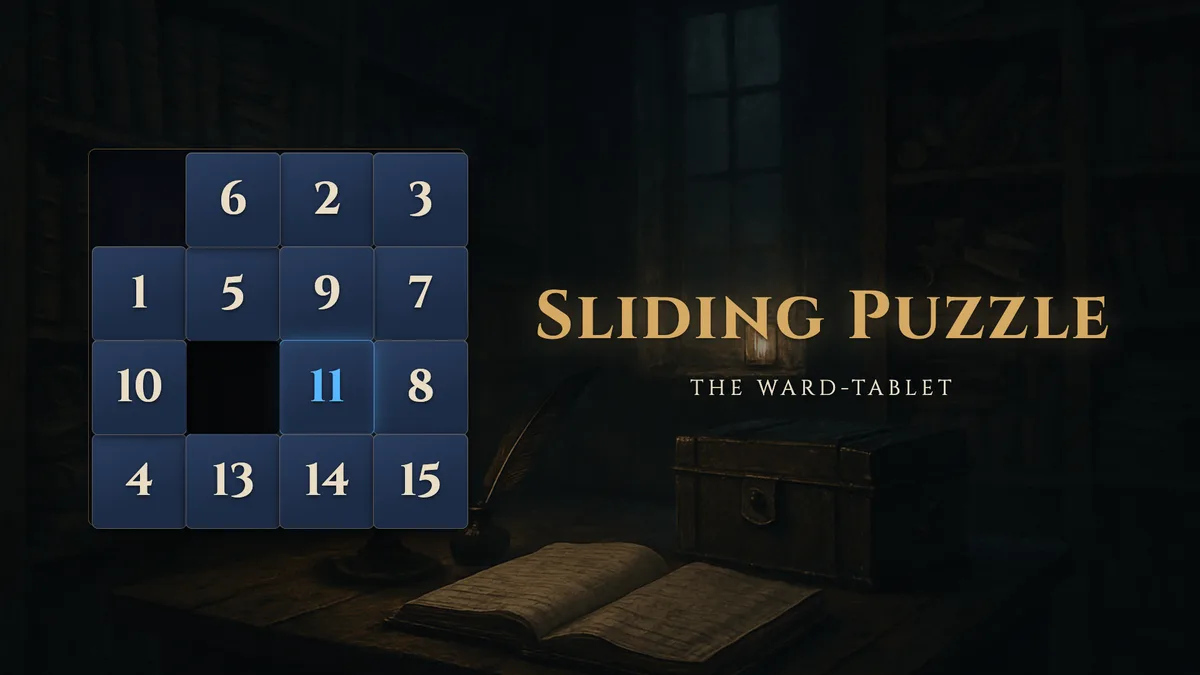
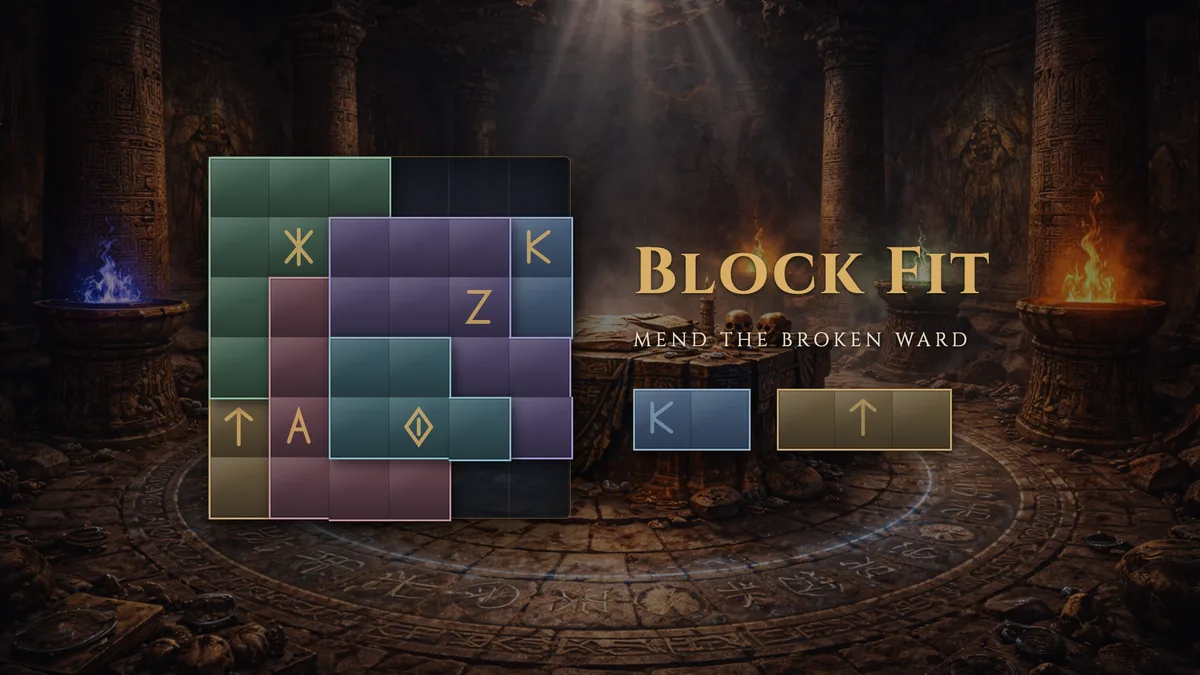
Block Fit: the rebuilt game's key art, copy and pitch
The page now says what the game actually is — 48 tablets across four sizes plus a daily,
every one proved to fit back together exactly one way — and carries the key art composed
from a real board instead of the placeholder desk.

diff --git a/small-games/index.html b/small-games/index.html
@@ -4,4 +4,4 @@
 <link rel="canonical" href="https://morass.github.io/small-games/"><meta property="og:title" content="Small Games — Morass"><meta property="og:description" content="Thoughtful little games you can play right here, in your browser."><meta property="og:type" content="website"><meta property="og:url" content="https://morass.github.io/small-games/"><meta property="og:image" content="https://morass.github.io/assets/projects/pyrewarden.webp">
 <meta name="theme-color" content="#101713"><script src="/theme.js"></script><link rel="icon" href="/favicon.png"><link rel="stylesheet" href="/hub.css"><script src="/hub.js" defer></script></head>
 <body><a class="skip" href="#main">Skip to content</a><header class="header"><div class="shell header-inner"><a class="brand" href="/" aria-label="Morass home"><span class="brand-mark" aria-hidden="true">m.</span>MORASS<span class="brand-note">PLAY · MAKE · EXPLORE</span></a><nav aria-label="Main"><a href="/games/">Games</a><a href="/small-games/" aria-current="page">Small Games</a><a href="/mobile/">Mobile</a><a href="/youtube/">YouTube</a><a href="/prints/">Prints</a></nav><button class="theme-toggle" type="button" aria-label="Switch to light mode" title="Switch to light mode" hidden><svg class="icon-sun" viewBox="0 0 24 24" aria-hidden="true"><g fill="none" stroke="currentColor" stroke-width="1.5" stroke-linecap="round"><circle cx="12" cy="12" r="4.2"/><path d="M12 2.5v2.6M12 18.9v2.6M2.5 12h2.6M18.9 12h2.6M5.3 5.3l1.8 1.8M16.9 16.9l1.8 1.8M5.3 18.7l1.8-1.8M16.9 7.1l1.8-1.8"/></g></svg><svg class="icon-moon" viewBox="0 0 24 24" aria-hidden="true"><path d="M19.5 14.6A7.8 7.8 0 0 1 9.4 4.5a7.8 7.8 0 1 0 10.1 10.1Z" fill="none" stroke="currentColor" stroke-width="1.5" stroke-linejoin="round"/><path d="M17 4.5l.6 1.4 1.4.6-1.4.6-.6 1.4-.6-1.4-1.4-.6 1.4-.6Z" fill="currentColor"/></svg></button></div></header>
-<main id="main" class="shell"><nav class="breadcrumbs" aria-label="Breadcrumb"><a href="/">Home</a><span aria-hidden="true">/</span><a href="/small-games/">Small Games</a></nav><header class="page-heading"><p class="eyebrow">Small Games</p><h1>Small games. Good company.</h1><p class="lede">Thoughtful little games you can play right here, in your browser.</p></header><section id="puzzle" class="collection"><div class="section-title"><h2>Puzzles</h2><span class="section-note">7 games</span></div><div class="cards"><a class="card" href="/small-games/block-fit/"><div class="card-art"><img src="/assets/projects/block-fit.webp" alt="" loading="lazy" width="960" height="600"><span class="card-arrow" aria-hidden="true">↗</span></div><div class="card-copy"><p class="eyebrow">Puzzle · Play in your browser</p><h2>Block Fit</h2><p>Fit the scattered runestones perfectly back into the warding tablet.</p></div></a><a class="card" href="/small-games/borrowed-ink/"><div class="card-art"><img src="/assets/projects/borrowed-ink.webp" alt="" loading="lazy" width="960" height="600"><span class="card-arrow" aria-hidden="true">↗</span></div><div class="card-copy"><p class="eyebrow">Puzzle · Play in your browser</p><h2>Borrowed Ink</h2><p>A little stamp, a sheet of paper and thirty ink-exchange puzzles. Match the pattern and leave the stamp empty.</p></div></a><a class="card" href="/small-games/lanternward/"><div class="card-art"><img src="/assets/projects/lanternward-web.webp" alt="" loading="lazy" width="960" height="600"><span class="card-arrow" aria-hidden="true">↗</span></div><div class="card-copy"><p class="eyebrow">Puzzle · Play in your browser</p><h2>Lanternward</h2><p>Light every street of Veldrenmar. An Akari logic puzzle with 300 graded levels and a daily, one solution each, never a guess.</p></div></a><a class="card" href="/small-games/minesweeper/"><div class="card-art"><img src="/assets/projects/minesweeper.webp" alt="" loading="lazy" width="960" height="600"><span class="card-arrow" aria-hidden="true">↗</span></div><div class="card-copy"><p class="eyebrow">Puzzle · Play in your browser</p><h2>Minesweeper</h2><p>Minesweeper on a Sundered floor. The first stone is always safe, and you never have to guess.</p></div></a><a class="card" href="/small-games/nonogram/"><div class="card-art"><img src="/assets/projects/nonogram.webp" alt="" loading="lazy" width="960" height="600"><span class="card-arrow" aria-hidden="true">↗</span></div><div class="card-copy"><p class="eyebrow">Puzzle · Play in your browser</p><h2>Nonogram</h2><p>Picture logic puzzles by candlelight. 240 hand-drawn pictures and a daily, one folio from our novel The Cistern Heresy. Never a guess.</p></div></a><a class="card" href="/small-games/sliding-puzzle/"><div class="card-art"><img src="/assets/projects/sliding-puzzle.webp" alt="" loading="lazy" width="960" height="600"><span class="card-arrow" aria-hidden="true">↗</span></div><div class="card-copy"><p class="eyebrow">Puzzle · Play in your browser</p><h2>Sliding Puzzle</h2><p>The 15 puzzle on a keeper&#x27;s ward-tablet. Ten measured boards per size and a daily — every board tells you its shortest way home.</p></div></a><a class="card" href="/small-games/sudoku/"><div class="card-art"><img src="/assets/projects/sudoku.webp" alt="" loading="lazy" width="960" height="600"><span class="card-arrow" aria-hidden="true">↗</span></div><div class="card-copy"><p class="eyebrow">Puzzle · Play in your browser</p><h2>Sudoku</h2><p>Sudoku under two moons. 480 boards and a daily, one answer each, never a guess.</p></div></a></div></section></main><footer class="footer shell"><a class="brand" href="/">morass<span class="accent">.</span></a><p>Games, objects and other curiosities.<br>Made with care. Made to be explored.</p><nav aria-label="Footer"><a href="/prints/">Prints</a><a href="/games/">Games</a><a href="/tools/">Tools</a><a href="https://discord.gg/KTKarn46yq" rel="noopener">Discord</a><a href="/privacy.html">Privacy</a></nav><small>© 2026 Morass</small></footer></body></html>
+<main id="main" class="shell"><nav class="breadcrumbs" aria-label="Breadcrumb"><a href="/">Home</a><span aria-hidden="true">/</span><a href="/small-games/">Small Games</a></nav><header class="page-heading"><p class="eyebrow">Small Games</p><h1>Small games. Good company.</h1><p class="lede">Thoughtful little games you can play right here, in your browser.</p></header><section id="puzzle" class="collection"><div class="section-title"><h2>Puzzles</h2><span class="section-note">7 games</span></div><div class="cards"><a class="card" href="/small-games/block-fit/"><div class="card-art"><img src="/assets/projects/block-fit.webp" alt="" loading="lazy" width="960" height="600"><span class="card-arrow" aria-hidden="true">↗</span></div><div class="card-copy"><p class="eyebrow">Puzzle · Play in your browser</p><h2>Block Fit</h2><p>A warding tablet broken into shards. Forty-eight tablets and a daily — every one proved to fit back together exactly one way.</p></div></a><a class="card" href="/small-games/borrowed-ink/"><div class="card-art"><img src="/assets/projects/borrowed-ink.webp" alt="" loading="lazy" width="960" height="600"><span class="card-arrow" aria-hidden="true">↗</span></div><div class="card-copy"><p class="eyebrow">Puzzle · Play in your browser</p><h2>Borrowed Ink</h2><p>A little stamp, a sheet of paper and thirty ink-exchange puzzles. Match the pattern and leave the stamp empty.</p></div></a><a class="card" href="/small-games/lanternward/"><div class="card-art"><img src="/assets/projects/lanternward-web.webp" alt="" loading="lazy" width="960" height="600"><span class="card-arrow" aria-hidden="true">↗</span></div><div class="card-copy"><p class="eyebrow">Puzzle · Play in your browser</p><h2>Lanternward</h2><p>Light every street of Veldrenmar. An Akari logic puzzle with 300 graded levels and a daily, one solution each, never a guess.</p></div></a><a class="card" href="/small-games/minesweeper/"><div class="card-art"><img src="/assets/projects/minesweeper.webp" alt="" loading="lazy" width="960" height="600"><span class="card-arrow" aria-hidden="true">↗</span></div><div class="card-copy"><p class="eyebrow">Puzzle · Play in your browser</p><h2>Minesweeper</h2><p>Minesweeper on a Sundered floor. The first stone is always safe, and you never have to guess.</p></div></a><a class="card" href="/small-games/nonogram/"><div class="card-art"><img src="/assets/projects/nonogram.webp" alt="" loading="lazy" width="960" height="600"><span class="card-arrow" aria-hidden="true">↗</span></div><div class="card-copy"><p class="eyebrow">Puzzle · Play in your browser</p><h2>Nonogram</h2><p>Picture logic puzzles by candlelight. 240 hand-drawn pictures and a daily, one folio from our novel The Cistern Heresy. Never a guess.</p></div></a><a class="card" href="/small-games/sliding-puzzle/"><div class="card-art"><img src="/assets/projects/sliding-puzzle.webp" alt="" loading="lazy" width="960" height="600"><span class="card-arrow" aria-hidden="true">↗</span></div><div class="card-copy"><p class="eyebrow">Puzzle · Play in your browser</p><h2>Sliding Puzzle</h2><p>The 15 puzzle on a keeper&#x27;s ward-tablet. Ten measured boards per size and a daily — every board tells you its shortest way home.</p></div></a><a class="card" href="/small-games/sudoku/"><div class="card-art"><img src="/assets/projects/sudoku.webp" alt="" loading="lazy" width="960" height="600"><span class="card-arrow" aria-hidden="true">↗</span></div><div class="card-copy"><p class="eyebrow">Puzzle · Play in your browser</p><h2>Sudoku</h2><p>Sudoku under two moons. 480 boards and a daily, one answer each, never a guess.</p></div></a></div></section></main><footer class="footer shell"><a class="brand" href="/">morass<span class="accent">.</span></a><p>Games, objects and other curiosities.<br>Made with care. Made to be explored.</p><nav aria-label="Footer"><a href="/prints/">Prints</a><a href="/games/">Games</a><a href="/tools/">Tools</a><a href="https://discord.gg/KTKarn46yq" rel="noopener">Discord</a><a href="/privacy.html">Privacy</a></nav><small>© 2026 Morass</small></footer></body></html>

diff --git a/small-games/block-fit/index.html b/small-games/block-fit/index.html
@@ -1,7 +1,7 @@
 <!doctype html>
 <html lang="en" data-theme="dark"><head><meta charset="utf-8"><meta name="viewport" content="width=device-width, initial-scale=1">
-<title>Block Fit — Morass</title><meta name="description" content="Play a free block packing puzzle. No download, account or ads.">
-<link rel="canonical" href="https://morass.github.io/small-games/block-fit/"><meta property="og:title" content="Block Fit — Morass"><meta property="og:description" content="Play a free block packing puzzle. No download, account or ads."><meta property="og:type" content="website"><meta property="og:url" content="https://morass.github.io/small-games/block-fit/"><meta property="og:image" content="https://morass.github.io/assets/projects/block-fit.webp">
+<title>Block Fit — Morass</title><meta name="description" content="Free shape-packing puzzle: 48 tablets and a daily, every one proved to fit together exactly one way.">
+<link rel="canonical" href="https://morass.github.io/small-games/block-fit/"><meta property="og:title" content="Block Fit — Morass"><meta property="og:description" content="Free shape-packing puzzle: 48 tablets and a daily, every one proved to fit together exactly one way."><meta property="og:type" content="website"><meta property="og:url" content="https://morass.github.io/small-games/block-fit/"><meta property="og:image" content="https://morass.github.io/assets/projects/block-fit.webp">
 <meta name="theme-color" content="#101713"><script src="/theme.js"></script><link rel="icon" href="/favicon.png"><link rel="stylesheet" href="/hub.css"><script src="/hub.js" defer></script></head>
 <body><a class="skip" href="#main">Skip to content</a><header class="header"><div class="shell header-inner"><a class="brand" href="/" aria-label="Morass home"><span class="brand-mark" aria-hidden="true">m.</span>MORASS<span class="brand-note">PLAY · MAKE · EXPLORE</span></a><nav aria-label="Main"><a href="/games/">Games</a><a href="/small-games/" aria-current="page">Small Games</a><a href="/mobile/">Mobile</a><a href="/youtube/">YouTube</a><a href="/prints/">Prints</a></nav><button class="theme-toggle" type="button" aria-label="Switch to light mode" title="Switch to light mode" hidden><svg class="icon-sun" viewBox="0 0 24 24" aria-hidden="true"><g fill="none" stroke="currentColor" stroke-width="1.5" stroke-linecap="round"><circle cx="12" cy="12" r="4.2"/><path d="M12 2.5v2.6M12 18.9v2.6M2.5 12h2.6M18.9 12h2.6M5.3 5.3l1.8 1.8M16.9 16.9l1.8 1.8M5.3 18.7l1.8-1.8M16.9 7.1l1.8-1.8"/></g></svg><svg class="icon-moon" viewBox="0 0 24 24" aria-hidden="true"><path d="M19.5 14.6A7.8 7.8 0 0 1 9.4 4.5a7.8 7.8 0 1 0 10.1 10.1Z" fill="none" stroke="currentColor" stroke-width="1.5" stroke-linejoin="round"/><path d="M17 4.5l.6 1.4 1.4.6-1.4.6-.6 1.4-.6-1.4-1.4-.6 1.4-.6Z" fill="currentColor"/></svg></button></div></header>
-<main id="main" class="shell"><nav class="breadcrumbs" aria-label="Breadcrumb"><a href="/">Home</a><span aria-hidden="true">/</span><a href="/small-games/">Small Games</a><span aria-hidden="true">/</span><a href="/small-games/block-fit/">Block Fit</a></nav><section class="product-hero"><div><header class="page-heading"><p class="eyebrow">SMALL GAMES / PUZZLE</p><h1>Block Fit</h1><p class="lede">Fit the scattered runestones perfectly back into the warding tablet.</p></header><a class="button" href="https://morassgames.com/games/block-fit/">Play now <span aria-hidden="true">↗</span></a><p class="small-note">Free to play · No account · Plays on morassgames.com</p></div><img src="/assets/projects/block-fit.webp" width="960" height="600" alt="The Block Fit puzzle desk"></section><section class="rules"><p class="eyebrow">HOW TO PLAY</p><h2>Restore the ward.</h2><ol><li>Drag pieces from the tray onto the board.</li><li>Fit all pieces perfectly with no gaps to complete the puzzle.</li><li>Pieces cannot be rotated.</li></ol><p>Progress is saved in your browser.</p></section></main><footer class="footer shell"><a class="brand" href="/">morass<span class="accent">.</span></a><p>Games, objects and other curiosities.<br>Made with care. Made to be explored.</p><nav aria-label="Footer"><a href="/prints/">Prints</a><a href="/games/">Games</a><a href="/tools/">Tools</a><a href="https://discord.gg/KTKarn46yq" rel="noopener">Discord</a><a href="/privacy.html">Privacy</a></nav><small>© 2026 Morass</small></footer></body></html>
+<main id="main" class="shell"><nav class="breadcrumbs" aria-label="Breadcrumb"><a href="/">Home</a><span aria-hidden="true">/</span><a href="/small-games/">Small Games</a><span aria-hidden="true">/</span><a href="/small-games/block-fit/">Block Fit</a></nav><section class="product-hero"><div><header class="page-heading"><p class="eyebrow">SMALL GAMES / PUZZLE</p><h1>Block Fit</h1><p class="lede">Every tablet fits back together exactly one way.</p></header><a class="button" href="https://morassgames.com/games/block-fit/">Play now <span aria-hidden="true">↗</span></a><p class="small-note">Free · No account · Plays on morassgames.com</p></div><img src="/assets/projects/block-fit.webp" width="1200" height="675" alt="A broken warding tablet of stone shards being fitted back together in a candlelit ritual chamber"></section><section class="rules"><p class="eyebrow">HOW TO PLAY</p><h2>Mend the broken ward.</h2><ol><li>Drag a shard onto the tablet — the outline shows the slot it will drop into.</li><li>Fill every square with no gaps and no overlaps. Shards never turn.</li></ol><p>Forty-eight tablets across four sizes plus a daily. Every board is proved to fit together exactly one way, and each keeps a public best time.</p></section></main><footer class="footer shell"><a class="brand" href="/">morass<span class="accent">.</span></a><p>Games, objects and other curiosities.<br>Made with care. Made to be explored.</p><nav aria-label="Footer"><a href="/prints/">Prints</a><a href="/games/">Games</a><a href="/tools/">Tools</a><a href="https://discord.gg/KTKarn46yq" rel="noopener">Discord</a><a href="/privacy.html">Privacy</a></nav><small>© 2026 Morass</small></footer></body></html>

diff --git a/scripts/build.py b/scripts/build.py
@@ -235,9 +235,9 @@ body = '<section class="product-hero"><div>'+heading('SMALL GAMES / PUZZLE', 'Bo
 body += '<section class="rules"><p class="eyebrow">HOW TO PLAY</p><h2>Make an impression.</h2><ol><li>Select two neighboring cells on the paper.</li><li>Press <strong>Make impression</strong> to exchange the ink in those cells with the stamp.</li><li>Match the target picture and leave the stamp empty.</li></ol><p>Turn the stamp to switch between horizontal and vertical pairs. Undo, restart and hints are always free. Your progress is saved in this browser.</p><p class="small-note">Keyboard: arrows to move, Enter to select, Space to press, R to turn, Z to undo, H for a hint.</p></section>'
 page('/small-games/borrowed-ink/', 'Borrowed Ink', 'Play a gentle, free ink-exchange puzzle with thirty levels. No download, account or ads.', body, 'small-games', [('Small Games','/small-games/'),('Borrowed Ink','/small-games/borrowed-ink/')], '/assets/projects/borrowed-ink.webp')
 
-body = '<section class="product-hero"><div>'+heading('SMALL GAMES / PUZZLE', 'Block Fit', 'Fit the scattered runestones perfectly back into the warding tablet.')+button('Play now', 'https://morassgames.com/games/block-fit/')+'<p class="small-note">Free to play · No account · Plays on morassgames.com</p></div><img src="/assets/projects/block-fit.webp" width="960" height="600" alt="The Block Fit puzzle desk"></section>'
-body += '<section class="rules"><p class="eyebrow">HOW TO PLAY</p><h2>Restore the ward.</h2><ol><li>Drag pieces from the tray onto the board.</li><li>Fit all pieces perfectly with no gaps to complete the puzzle.</li><li>Pieces cannot be rotated.</li></ol><p>Progress is saved in your browser.</p></section>'
-page('/small-games/block-fit/', 'Block Fit', 'Play a free block packing puzzle. No download, account or ads.', body, 'small-games', [('Small Games','/small-games/'),('Block Fit','/small-games/block-fit/')], '/assets/projects/block-fit.webp')
+body = '<section class="product-hero"><div>'+heading('SMALL GAMES / PUZZLE', 'Block Fit', 'Every tablet fits back together exactly one way.')+button('Play now', 'https://morassgames.com/games/block-fit/')+'<p class="small-note">Free · No account · Plays on morassgames.com</p></div><img src="/assets/projects/block-fit.webp" width="1200" height="675" alt="A broken warding tablet of stone shards being fitted back together in a candlelit ritual chamber"></section>'
+body += '<section class="rules"><p class="eyebrow">HOW TO PLAY</p><h2>Mend the broken ward.</h2><ol><li>Drag a shard onto the tablet — the outline shows the slot it will drop into.</li><li>Fill every square with no gaps and no overlaps. Shards never turn.</li></ol><p>Forty-eight tablets across four sizes plus a daily. Every board is proved to fit together exactly one way, and each keeps a public best time.</p></section>'
+page('/small-games/block-fit/', 'Block Fit', 'Free shape-packing puzzle: 48 tablets and a daily, every one proved to fit together exactly one way.', body, 'small-games', [('Small Games','/small-games/'),('Block Fit','/small-games/block-fit/')], '/assets/projects/block-fit.webp')
 
 # Category pages only show the next level
 
